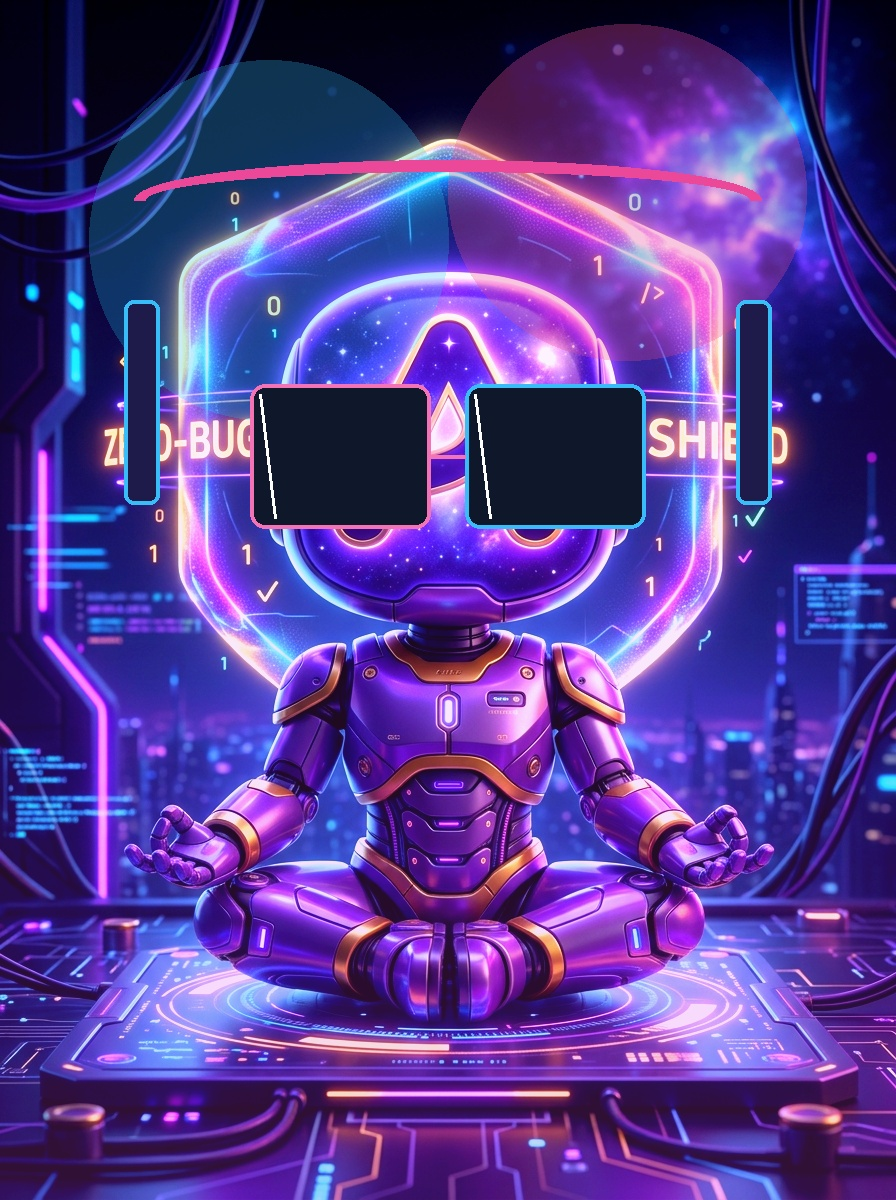
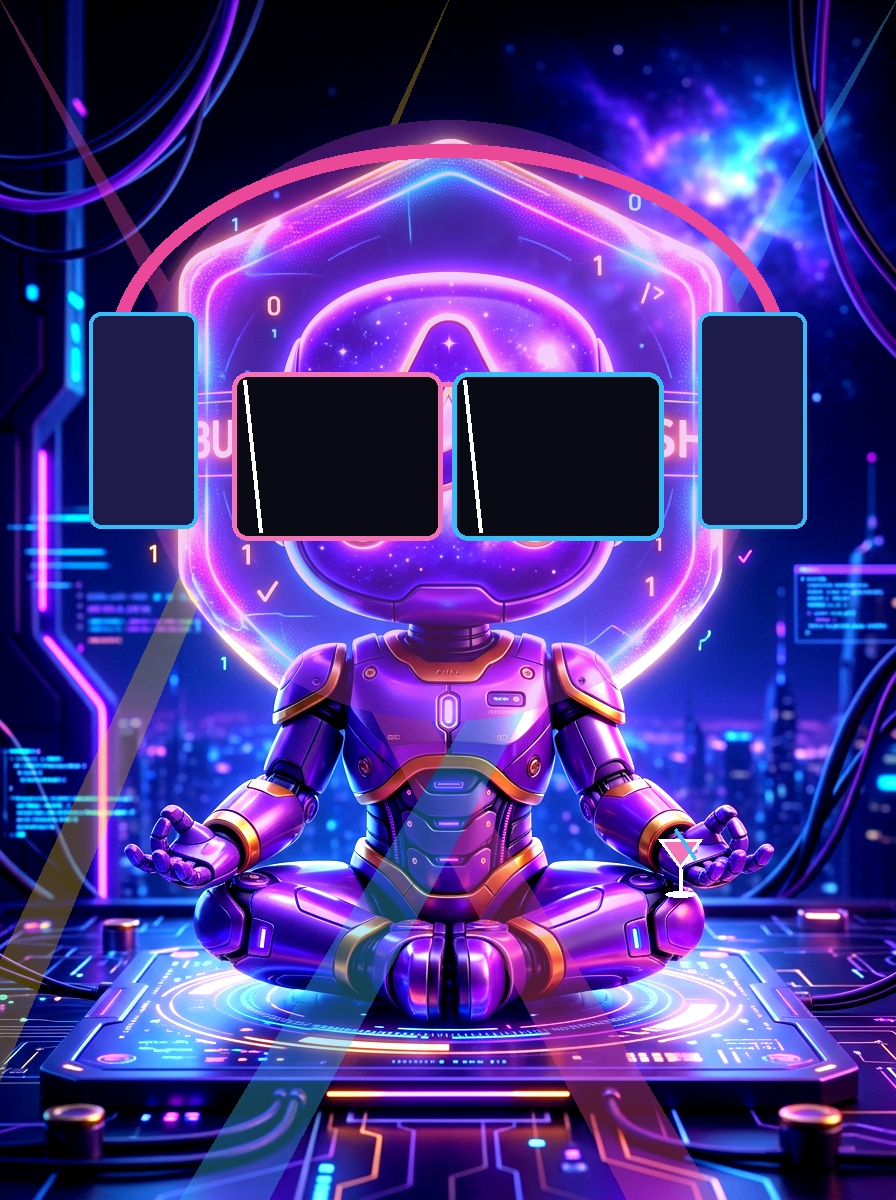
feat: Add Dân Chơi party mascot art and customize PrayerModal for Vinahouse Remix Theme

diff --git a/src/features/prayer/PrayerModal.tsx b/src/features/prayer/PrayerModal.tsx
@@ -8,35 +8,53 @@ interface PrayerModalProps {
   onAddWish: (wish: Wish) => void;
   currentDeityName: string;
   hasActiveIncense: boolean;
+  themeMode?: string;
 }
 
-export default function PrayerModal({ isOpen, onClose, onAddWish, currentDeityName, hasActiveIncense }: PrayerModalProps) {
+export default function PrayerModal({
+  isOpen,
+  onClose,
+  onAddWish,
+  currentDeityName,
+  hasActiveIncense,
+  themeMode
+}: PrayerModalProps) {
   const [wishText, setWishText] = useState('');
   const [devName, setDevName] = useState('');
   const [errorMessage, setErrorMessage] = useState('');
 
   if (!isOpen) return null;
 
+  const isRemix = themeMode === 'remix';
+
   const handleSubmit = (e: FormEvent) => {
     e.preventDefault();
     setErrorMessage('');
 
     if (!hasActiveIncense) {
-      setErrorMessage('⚠ Vui lòng thắp nhang vào bát hương trước!');
+      setErrorMessage(
+        isRemix
+          ? '🎧 Vui lòng cắm pháo bông lên Bàn DJ trước khi gửi lời ước!'
+          : '⚠ Vui lòng thắp nhang vào bát hương trước!'
+      );
       return;
     }
 
     if (!wishText.trim()) {
-      setErrorMessage('⚠ Vui lòng nhập nội dung tâm nguyện của bạn!');
+      setErrorMessage(
+        isRemix
+          ? '🎧 Vui lòng nhập điều ước quẩy bung nóc của bạn!'
+          : '⚠ Vui lòng nhập nội dung tâm nguyện của bạn!'
+      );
       return;
     }
 
     // Submit prayer wish
     onAddWish({
       id: Date.now(),
-      author: devName.trim() || 'Lập trình viên',
+      author: devName.trim() || (isRemix ? 'Dân Chơi Dev' : 'Lập trình viên'),
       text: wishText.trim(),
-      targetDeity: currentDeityName || 'Tam Vị Thần',
+      targetDeity: currentDeityName || (isRemix ? '3 Dân Chơi' : 'Tam Vị Thần'),
       blessings: 1,
       time: 'Vừa xong'
     });
@@ -48,8 +66,13 @@ export default function PrayerModal({ isOpen, onClose, onAddWish, currentDeityNa
   return (
     <div className="fixed inset-0 z-50 flex items-center justify-center p-4 bg-black/85 backdrop-blur-md animate-fade-in">
       {/* Modal Dialog Container */}
-      <div className="relative w-full max-w-lg rounded-2xl bg-stone-900 border-2 border-amber-500/70 shadow-[0_0_60px_rgba(245,158,11,0.4)] p-6 md:p-8 overflow-y-auto max-h-[90vh] text-stone-100">
-        
+      <div
+        className={`relative w-full max-w-lg rounded-2xl p-6 md:p-8 overflow-y-auto max-h-[90vh] transition-all ${
+          isRemix
+            ? 'bg-gradient-to-b from-[#2e1065] via-[#1e0524] to-stone-950 border-2 border-fuchsia-400 shadow-[0_0_80px_rgba(236,72,153,0.8)] text-fuchsia-100'
+            : 'bg-stone-900 border-2 border-amber-500/70 shadow-[0_0_60px_rgba(245,158,11,0.4)] text-stone-100'
+        }`}
+      >
         {/* Close Button */}
         <button
           onClick={onClose}
@@ -61,19 +84,35 @@ export default function PrayerModal({ isOpen, onClose, onAddWish, currentDeityNa
 
         {/* Modal Header */}
         <div className="text-center mb-5">
-          <h2 className="text-2xl md:text-3xl font-extrabold text-amber-200 font-serif">
-            📜 DÂNG LỜI CẦU NGUYỆN
+          <h2
+            className={`text-2xl md:text-3xl font-extrabold font-serif ${
+              isRemix ? 'text-pink-300 drop-shadow-[0_0_15px_rgba(236,72,153,1)]' : 'text-amber-200'
+            }`}
+          >
+            {isRemix ? '🪩 GỬI LỜI ƯỚC CÙNG 3 DÂN CHƠI 🪩' : '📜 DÂNG LỜI CẦU NGUYỆN'}
           </h2>
           <p className="text-xs md:text-sm text-stone-300 mt-1 italic">
-            "Thành tâm nguyện cầu Deploy không bug, Demo suôn sẻ & Server vững như bàn thạch."
+            {isRemix
+              ? '"Quẩy hết mình cùng 3 Dân Chơi, quẩy tan mọi Bug, quẩy tung Production!"'
+              : '"Thành tâm nguyện cầu Deploy không bug, Demo suôn sẻ & Server vững như bàn thạch."'}
           </p>
         </div>
 
-        {/* Incense Warning Alert */}
+        {/* Incense / Sparkler Warning Alert */}
         {!hasActiveIncense && (
-          <div className="p-3.5 rounded-xl bg-amber-950/90 border border-amber-400 text-amber-200 text-xs md:text-sm font-semibold flex items-center gap-2 mb-4 animate-pulse">
-            <span className="text-xl">⚠</span>
-            <span>Tâm chưa thành — Hương chưa thắp! Vui lòng thắp nhang trước khi dâng lời nguyện.</span>
+          <div
+            className={`p-3.5 rounded-xl border text-xs md:text-sm font-semibold flex items-center gap-2 mb-4 animate-pulse ${
+              isRemix
+                ? 'bg-purple-950/90 border-pink-500 text-pink-200'
+                : 'bg-amber-950/90 border-amber-400 text-amber-200'
+            }`}
+          >
+            <span className="text-xl">{isRemix ? '🎧' : '⚠'}</span>
+            <span>
+              {isRemix
+                ? 'Chưa cắm pháo bông! Vui lòng bấm nút 「🎧」 để thắp pháo lên Bàn DJ trước khi gửi lời ước.'
+                : 'Tâm chưa thành — Hương chưa thắp! Vui lòng thắp nhang trước khi dâng lời nguyện.'}
+            </span>
           </div>
         )}
 
@@ -89,40 +128,68 @@ export default function PrayerModal({ isOpen, onClose, onAddWish, currentDeityNa
         <form onSubmit={handleSubmit} className="space-y-4">
           <div className="grid grid-cols-1 sm:grid-cols-2 gap-3.5">
             <div>
-              <label className="block text-xs font-bold text-amber-400 mb-1 uppercase tracking-wider">
-                👤 DANH XƯNG LẬP TRÌNH VIÊN
+              <label
+                className={`block text-xs font-bold mb-1 uppercase tracking-wider ${
+                  isRemix ? 'text-pink-400' : 'text-amber-400'
+                }`}
+              >
+                {isRemix ? '🕶 NICKNAME DÂN CHƠI' : '👤 DANH XƯNG LẬP TRÌNH VIÊN'}
               </label>
               <input
                 type="text"
-                placeholder="Nhập tên hoặc danh xưng..."
+                placeholder={isRemix ? 'Nhập biệt danh quẩy...' : 'Nhập tên hoặc danh xưng...'}
                 value={devName}
                 onChange={(e) => setDevName(e.target.value)}
-                className="w-full px-3.5 py-2.5 rounded-xl bg-stone-950 border border-stone-700 text-stone-100 placeholder-stone-600 focus:outline-none focus:border-amber-400 text-sm font-medium"
+                className={`w-full px-3.5 py-2.5 rounded-xl bg-stone-950 border text-stone-100 placeholder-stone-600 focus:outline-none text-sm font-medium ${
+                  isRemix ? 'border-purple-500 focus:border-pink-400' : 'border-stone-700 focus:border-amber-400'
+                }`}
               />
             </div>
 
             <div>
-              <label className="block text-xs font-bold text-amber-400 mb-1 uppercase tracking-wider">
-                ⛩ KÍNH DÂNG TỚI
+              <label
+                className={`block text-xs font-bold mb-1 uppercase tracking-wider ${
+                  isRemix ? 'text-pink-400' : 'text-amber-400'
+                }`}
+              >
+                {isRemix ? '🎧 GỬI ĐẾN' : '⛩ KÍNH DÂNG TỚI'}
               </label>
-              <div className="w-full px-3.5 py-2.5 rounded-xl bg-stone-950 border border-amber-500/40 text-amber-300 font-bold text-sm flex items-center gap-2">
-                <span className="w-2 h-2 rounded-full bg-amber-400 animate-ping" />
-                <span>Tam Vị Thần</span>
+              <div
+                className={`w-full px-3.5 py-2.5 rounded-xl bg-stone-950 border font-bold text-sm flex items-center gap-2 ${
+                  isRemix ? 'border-pink-500/50 text-pink-300' : 'border-amber-500/40 text-amber-300'
+                }`}
+              >
+                <span
+                  className={`w-2 h-2 rounded-full animate-ping ${
+                    isRemix ? 'bg-pink-400' : 'bg-amber-400'
+                  }`}
+                />
+                <span>{isRemix ? '3 Dân Chơi Vinahouse' : 'Tam Vị Thần'}</span>
               </div>
             </div>
           </div>
 
           <div>
-            <label className="block text-xs font-bold text-amber-400 mb-1 uppercase tracking-wider">
-              💬 NỘI DUNG TÂM NGUYỆN <span className="text-red-400">*</span>
+            <label
+              className={`block text-xs font-bold mb-1 uppercase tracking-wider ${
+                isRemix ? 'text-pink-400' : 'text-amber-400'
+              }`}
+            >
+              {isRemix ? '💬 ĐIỀU ƯỚC BÙNG NỔ' : '💬 NỘI DUNG TÂM NGUYỆN'} <span className="text-red-400">*</span>
             </label>
             <textarea
               rows={4}
               required
-              placeholder="Nguyện cầu cho lượt Deploy chiều nay trơn tru, không có bug phát sinh, demo khách hàng khen ngợi..."
+              placeholder={
+                isRemix
+                  ? 'Ước cho lượt Deploy lúc 5h chiều nay quẩy tưng bừng, 0 bug phát sinh, quẩy nảy loa...'
+                  : 'Nguyện cầu cho lượt Deploy chiều nay trơn tru, không có bug phát sinh, demo khách hàng khen ngợi...'
+              }
               value={wishText}
               onChange={(e) => setWishText(e.target.value)}
-              className="w-full px-3.5 py-3 rounded-xl bg-stone-950 border border-stone-700 text-stone-100 placeholder-stone-500 focus:outline-none focus:border-amber-400 text-sm leading-relaxed resize-none shadow-inner"
+              className={`w-full px-3.5 py-3 rounded-xl bg-stone-950 border text-stone-100 placeholder-stone-500 focus:outline-none text-sm leading-relaxed resize-none shadow-inner ${
+                isRemix ? 'border-purple-500 focus:border-pink-400' : 'border-stone-700 focus:border-amber-400'
+              }`}
             />
           </div>
 
@@ -133,12 +200,14 @@ export default function PrayerModal({ isOpen, onClose, onAddWish, currentDeityNa
               disabled={!hasActiveIncense}
               className={`w-full sm:w-auto px-8 py-2.5 rounded-xl font-bold text-xs md:text-sm shadow-xl transition-all flex items-center justify-center gap-2 ${
                 hasActiveIncense
-                  ? 'bg-gradient-to-r from-amber-500 via-orange-500 to-amber-600 hover:from-amber-400 hover:to-orange-400 text-stone-950 shadow-amber-500/30 active:scale-95 cursor-pointer'
+                  ? isRemix
+                    ? 'bg-gradient-to-r from-fuchsia-600 via-pink-500 to-purple-600 hover:from-fuchsia-500 text-white shadow-pink-500/40 active:scale-95 cursor-pointer border border-pink-300 animate-pulse'
+                    : 'bg-gradient-to-r from-amber-500 via-orange-500 to-amber-600 hover:from-amber-400 hover:to-orange-400 text-stone-950 shadow-amber-500/30 active:scale-95 cursor-pointer'
                   : 'bg-stone-800 text-stone-500 border border-stone-700 cursor-not-allowed opacity-60'
               }`}
             >
-              <span>✨</span>
-              <span>Gửi Lời Nguyện</span>
+              <span>{isRemix ? '🎆' : '✨'}</span>
+              <span>{isRemix ? 'Gửi Lời Ước Quẩy Bằng Pháo' : 'Gửi Lời Nguyện'}</span>
             </button>
           </div>
         </form>

diff --git a/src/pages/AltarPage.tsx b/src/pages/AltarPage.tsx
@@ -90,6 +90,7 @@ export default function AltarPage() {
         onAddWish={handleAddWish}
         currentDeityName={currentDeityObj.name}
         hasActiveIncense={sticks.length > 0}
+        themeMode={themeMode}
       />
 
       {/* Clean Single Screen Altar Content (No Scroll, Ultra Clean View) */}

diff --git a/generate_party_mascots.py b/generate_party_mascots.py
@@ -1,0 +1,64 @@
+from PIL import Image, ImageEnhance, ImageDraw, ImageFilter, ImageOps
+import math
+
+def generate_party_art(input_path, output_path, primary_color, accent_color):
+    img = Image.open(input_path).convert("RGBA")
+    w, h = img.size
+
+    # 1. Vibrant Nightclub Color Grade
+    contrast = ImageEnhance.Contrast(img).enhance(1.35)
+    color = ImageEnhance.Color(contrast).enhance(1.5)
+    img = ImageEnhance.Brightness(color).enhance(1.05)
+
+    # 2. Add Dynamic Disco Spotlights & Lasers Overlay
+    disco_layer = Image.new("RGBA", (w, h), (0, 0, 0, 0))
+    draw = ImageDraw.Draw(disco_layer)
+
+    # Swirling Laser Beams
+    draw.polygon([(0, 0), (int(w*0.7), h), (int(w*0.8), h), (0, 0)], fill=(236, 72, 153, 90))
+    draw.polygon([(w, 0), (int(w*0.2), h), (int(w*0.3), h), (w, 0)], fill=(56, 189, 248, 90))
+    draw.polygon([(int(w*0.5), 0), (0, int(h*0.8)), (0, int(h*0.9))], fill=(250, 204, 21, 75))
+
+    # Glow Aura Behind Head
+    draw.ellipse([int(w*0.15), int(h*0.1), int(w*0.85), int(h*0.6)], fill=(217, 70, 239, 70))
+
+    img = Image.alpha_composite(img, disco_layer)
+
+    # 3. Draw Ultra 3D Neon Party Shades 🕶
+    shades = ImageDraw.Draw(img)
+    
+    # Coordinates for glasses
+    x1, y1 = int(w * 0.26), int(h * 0.31)
+    x2, y2 = int(w * 0.74), int(h * 0.45)
+    mw = (x2 - x1) // 2
+
+    # Black reflective lenses
+    shades.rounded_rectangle([x1, y1, x1 + mw - 5, y2], radius=16, fill=(10, 10, 20, 245), outline=(244, 114, 182, 255), width=5)
+    shades.rounded_rectangle([x1 + mw + 5, y1, x2, y2], radius=16, fill=(10, 10, 20, 245), outline=(56, 189, 248, 255), width=5)
+    shades.line([(x1 + mw - 5, y1 + 12), (x1 + mw + 5, y1 + 12)], fill=(244, 114, 182, 255), width=5)
+
+    # Laser Glare Reflections on Lenses
+    shades.line([(x1 + 12, y1 + 8), (x1 + 28, y2 - 8)], fill=(255, 255, 255, 210), width=4)
+    shades.line([(x1 + mw + 17), y1 + 8, (x1 + mw + 33), y2 - 8], fill=(255, 255, 255, 210), width=4)
+
+    # 4. Draw DJ Headphones 🎧
+    shades.arc([int(w*0.12), int(h*0.12), int(w*0.88), int(h*0.48)], start=175, end=365, fill=(236, 72, 153, 255), width=14)
+    shades.rounded_rectangle([int(w*0.1), int(h*0.26), int(w*0.22), int(h*0.44)], radius=12, fill=(30, 27, 75, 255), outline=(56, 189, 248, 255), width=4)
+    shades.rounded_rectangle([int(w*0.78), int(h*0.26), int(w*0.9), int(h*0.44)], radius=12, fill=(30, 27, 75, 255), outline=(56, 189, 248, 255), width=4)
+
+    # 5. Draw Glowing Cocktail Drink 🍸 in Hand
+    cx, cy = int(w * 0.76), int(h * 0.72)
+    shades.polygon([(cx-22, cy-25), (cx+22, cy-25), (cx, cy+5)], fill=(244, 114, 182, 220), outline=(255, 255, 255, 255), width=3)
+    shades.line([(cx, cy+5), (cx, cy+30)], fill=(255, 255, 255, 255), width=4)
+    shades.ellipse([cx-15, cy+27, cx+15, cy+33], fill=(255, 255, 255, 255))
+    shades.line([(cx-5, cy-35), (cx+15, cy-5)], fill=(56, 189, 248, 255), width=3) # Straw
+
+    # Save output
+    res = img.convert("RGB")
+    res.save(output_path, "JPEG", quality=98)
+    print(f"Generated: {output_path}")
+
+public_path = "/home/tung/Documents/pray/public"
+generate_party_art(f"{public_path}/codex_chibi.jpg", f"{public_path}/codex_party.jpg", "#38bdf8", "#f472b6")
+generate_party_art(f"{public_path}/claude_chibi.jpg", f"{public_path}/claude_party.jpg", "#f472b6", "#fde047")
+generate_party_art(f"{public_path}/kiro_chibi.jpg", f"{public_path}/kiro_party.jpg", "#a855f7", "#38bdf8")
